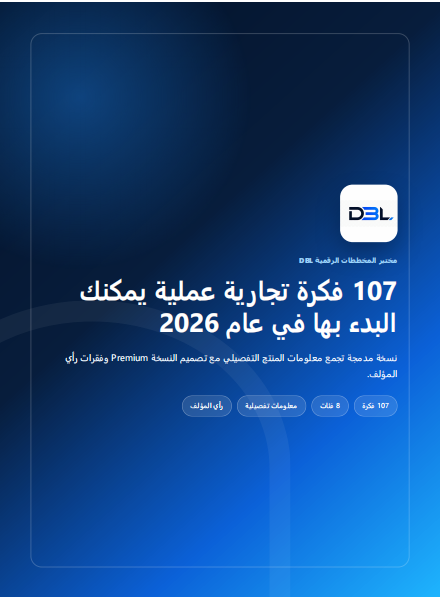
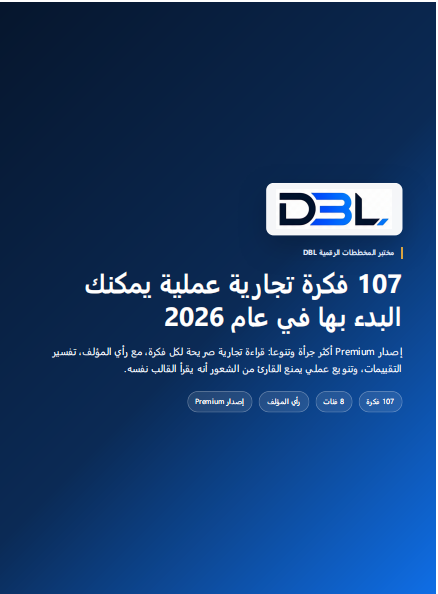
Replace Business Ideas Vault previews

diff --git a/dbl-business-ideas-vault.html b/dbl-business-ideas-vault.html
@@ -86,7 +86,7 @@
         <div class="section-heading reveal in-view">
           <span class="eyebrow" data-i18n="preview.eyebrow">Product Preview</span>
           <h2 id="business-ideas-preview-title" data-i18n="businessIdeasVault.previewTitle">See a real preview from inside the guide before buying</h2>
-          <p data-i18n="businessIdeasVault.previewBody">Selected pages from inside the product showing the structure, idea index, fit test, and idea explanation style.</p>
+          <p data-i18n="businessIdeasVault.previewBody">Selected pages from inside the product showing the cover, category index, card reading guide, and sample business idea cards.</p>
         </div>
         <div class="preview-carousel reveal in-view" data-preview-carousel data-preview-interval="5000">
           <div class="preview-carousel-stage">
@@ -102,17 +102,13 @@
             <button type="button" data-preview-dot="2" data-i18n-aria-label="businessIdeasVault.previewSlideLabel">3</button>
             <button type="button" data-preview-dot="3" data-i18n-aria-label="businessIdeasVault.previewSlideLabel">4</button>
             <button type="button" data-preview-dot="4" data-i18n-aria-label="businessIdeasVault.previewSlideLabel">5</button>
-            <button type="button" data-preview-dot="5" data-i18n-aria-label="businessIdeasVault.previewSlideLabel">6</button>
-            <button type="button" data-preview-dot="6" data-i18n-aria-label="businessIdeasVault.previewSlideLabel">7</button>
           </div>
           <div class="preview-thumbnails" aria-label="Business Ideas Vault preview thumbnails">
             <button type="button" class="active" data-preview-thumb="0"><img src="/assets/previews/business-ideas-vault/business-ideas-preview-01-cover.png" data-preview-slide alt="DBL Business Ideas Vault cover preview thumbnail" data-i18n-alt="businessIdeasVault.previewAlt.0"></button>
-            <button type="button" data-preview-thumb="1"><img src="/assets/previews/business-ideas-vault/business-ideas-preview-02-fit-test.png" data-preview-slide alt="Business idea fit test preview thumbnail" loading="lazy" data-i18n-alt="businessIdeasVault.previewAlt.1"></button>
-            <button type="button" data-preview-thumb="2"><img src="/assets/previews/business-ideas-vault/business-ideas-preview-03-idea-index.png" data-preview-slide alt="Business idea index preview thumbnail" loading="lazy" data-i18n-alt="businessIdeasVault.previewAlt.2"></button>
-            <button type="button" data-preview-thumb="3"><img src="/assets/previews/business-ideas-vault/business-ideas-preview-04-sample-idea-start.png" data-preview-slide alt="Sample business idea start preview thumbnail" loading="lazy" data-i18n-alt="businessIdeasVault.previewAlt.3"></button>
-            <button type="button" data-preview-thumb="4"><img src="/assets/previews/business-ideas-vault/business-ideas-preview-05-sample-idea-rating.png" data-preview-slide alt="Sample business idea rating preview thumbnail" loading="lazy" data-i18n-alt="businessIdeasVault.previewAlt.4"></button>
-            <button type="button" data-preview-thumb="5"><img src="/assets/previews/business-ideas-vault/business-ideas-preview-06-mid-book-sample.png" data-preview-slide alt="Mid-book sample preview thumbnail" loading="lazy" data-i18n-alt="businessIdeasVault.previewAlt.5"></button>
-            <button type="button" data-preview-thumb="6"><img src="/assets/previews/business-ideas-vault/business-ideas-preview-07-mid-book-sample-continued.png" data-preview-slide alt="Mid-book sample continued preview thumbnail" loading="lazy" data-i18n-alt="businessIdeasVault.previewAlt.6"></button>
+            <button type="button" data-preview-thumb="1"><img src="/assets/previews/business-ideas-vault/business-ideas-preview-02-idea-index.png" data-preview-slide alt="Business ideas category index preview thumbnail" loading="lazy" data-i18n-alt="businessIdeasVault.previewAlt.1"></button>
+            <button type="button" data-preview-thumb="2"><img src="/assets/previews/business-ideas-vault/business-ideas-preview-03-how-to-read.png" data-preview-slide alt="Business idea card reading guide preview thumbnail" loading="lazy" data-i18n-alt="businessIdeasVault.previewAlt.2"></button>
+            <button type="button" data-preview-thumb="3"><img src="/assets/previews/business-ideas-vault/business-ideas-preview-04-sample-idea-remote-service.png" data-preview-slide alt="Remote customer service business idea preview thumbnail" loading="lazy" data-i18n-alt="businessIdeasVault.previewAlt.3"></button>
+            <button type="button" data-preview-thumb="4"><img src="/assets/previews/business-ideas-vault/business-ideas-preview-05-sample-idea-learning-challenge.png" data-preview-slide alt="Thirty day learning challenge business idea preview thumbnail" loading="lazy" data-i18n-alt="businessIdeasVault.previewAlt.4"></button>
           </div>
           <div class="preview-lightbox" data-preview-lightbox hidden>
             <button type="button" class="preview-lightbox-close" data-preview-close data-i18n-aria-label="businessIdeasVault.previewClose">×</button>